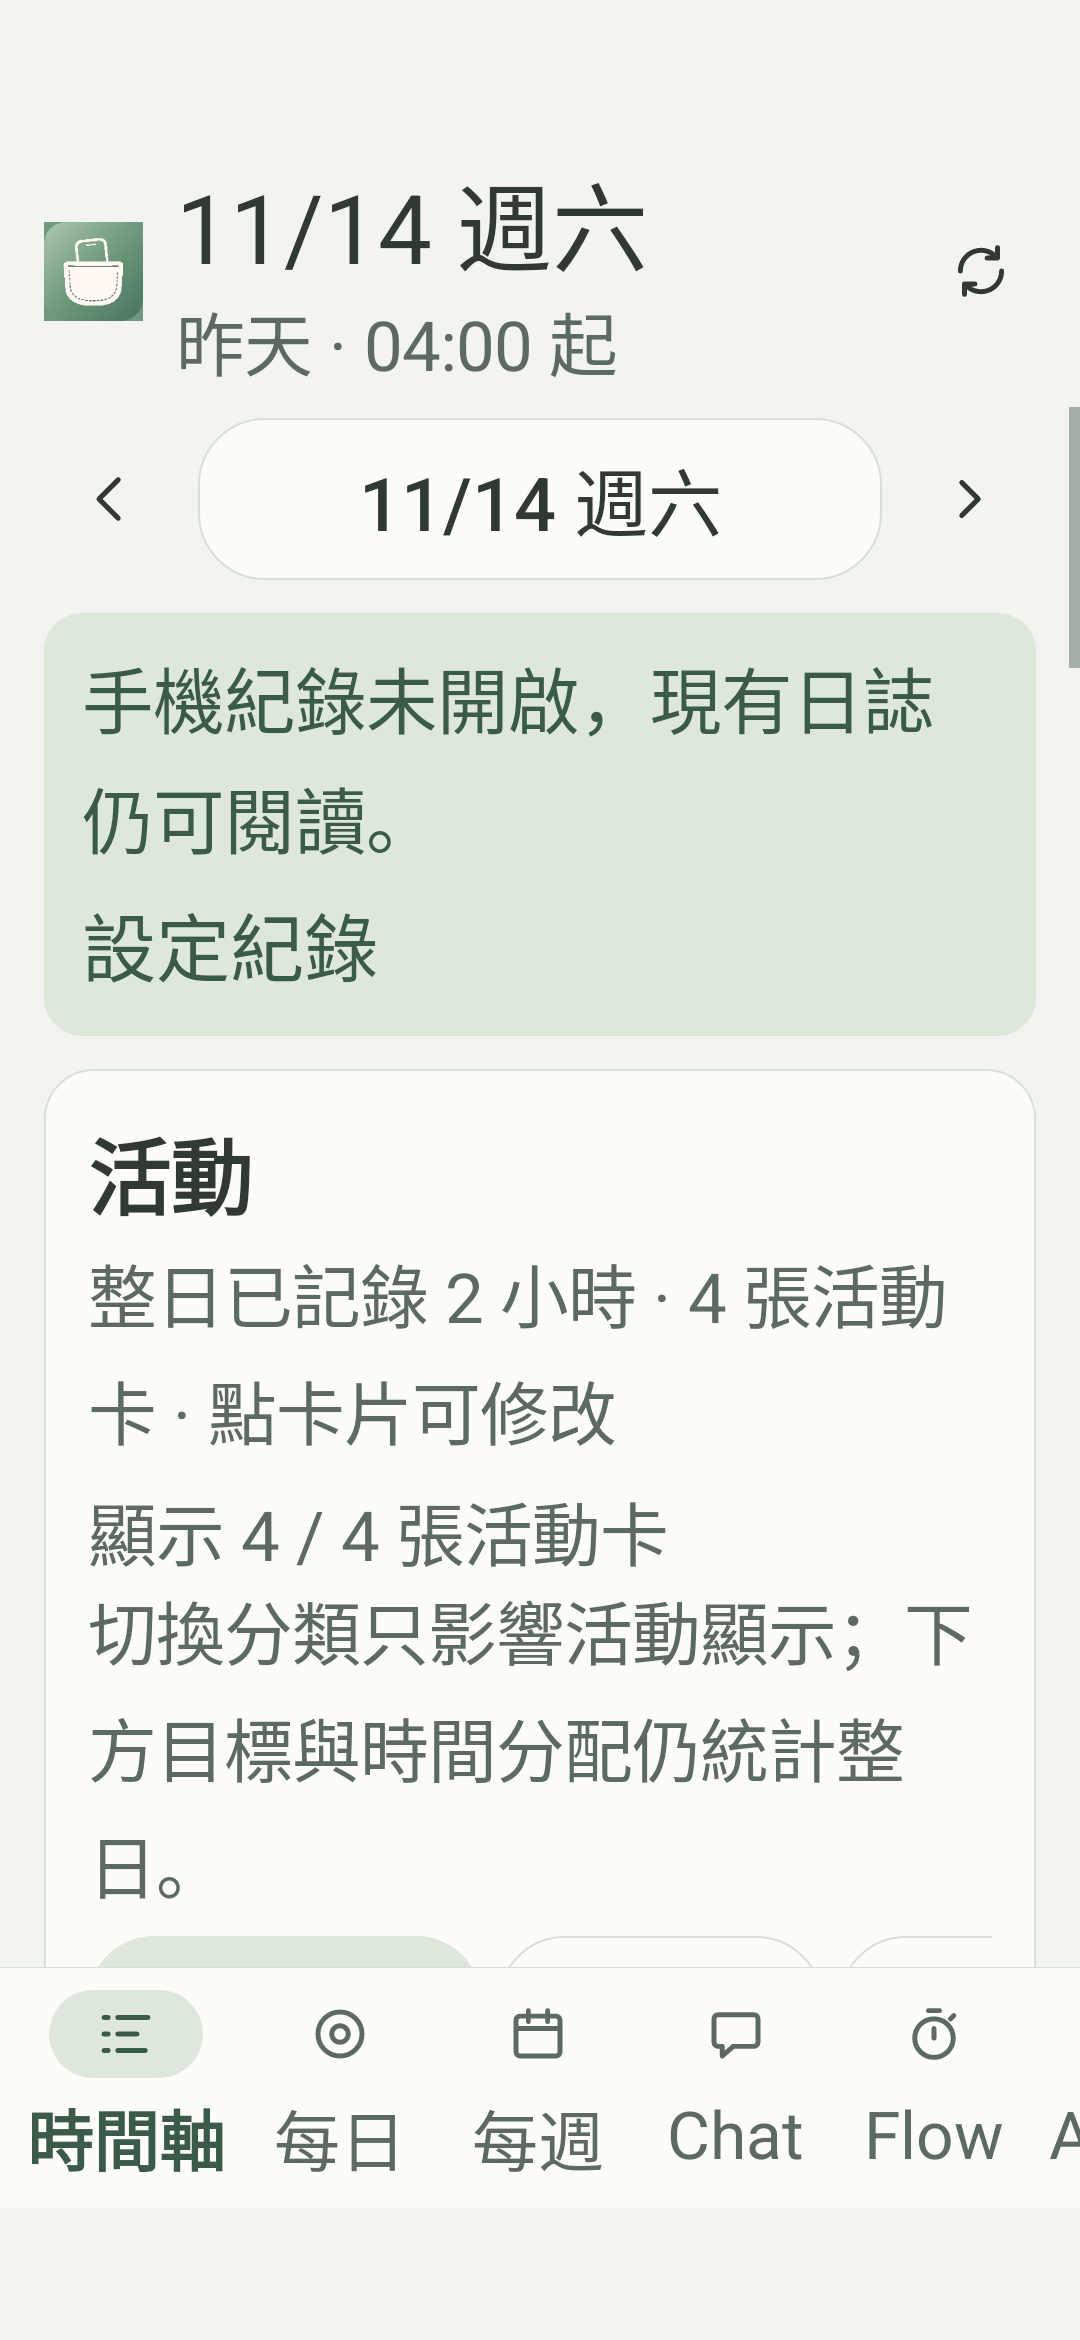
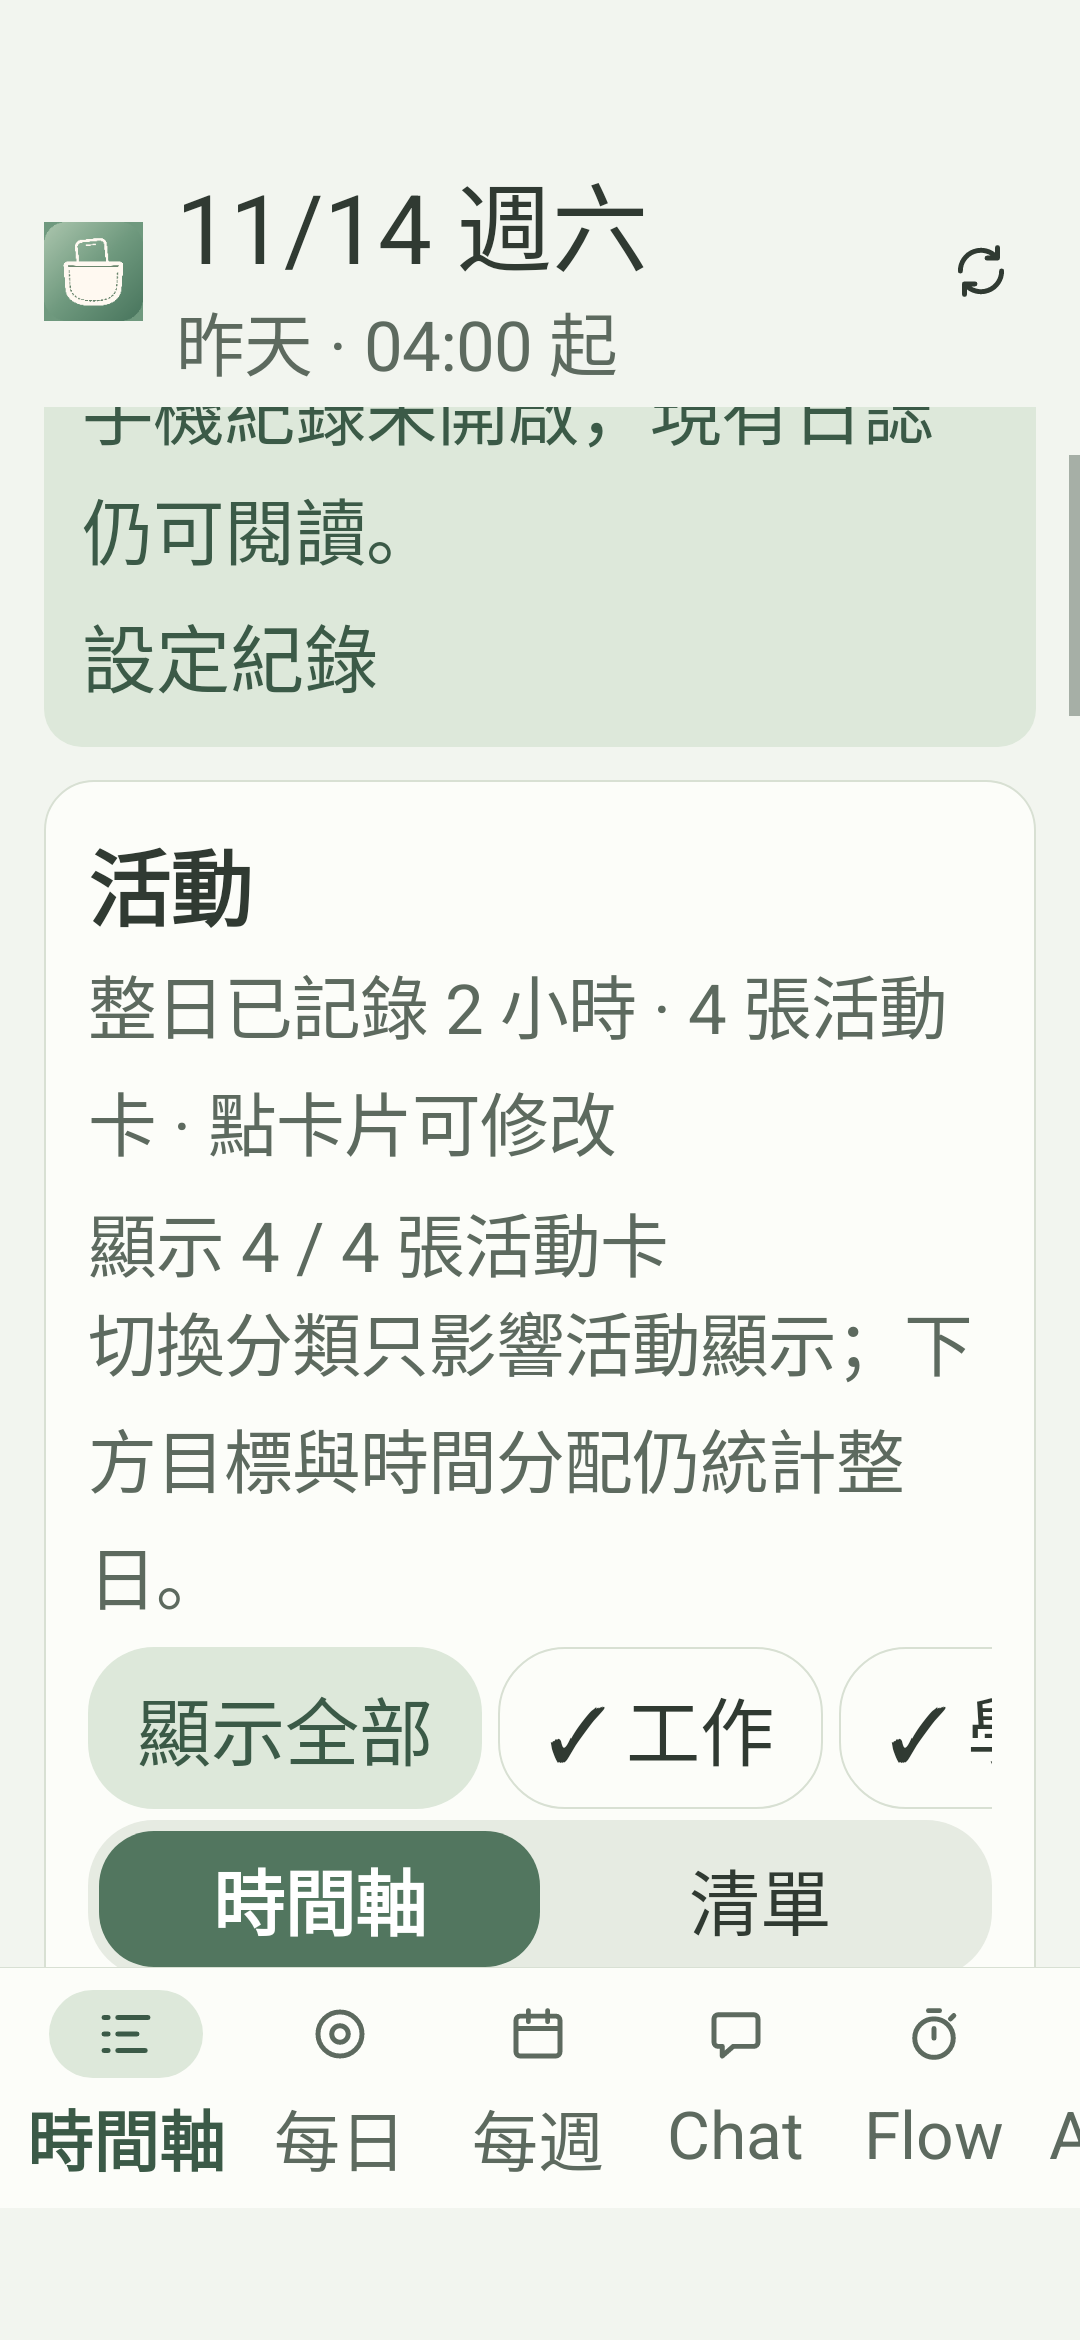
Capture visible category controls at large text size

Changed region(s): [[0.0306, 0.156, 0.9778, 0.8423], [0.9778, 0.156, 1.0, 0.2184], [0.9778, 0.2808, 1.0, 0.312]]

diff --git a/android/app/src/androidTest/java/tw/skyhong/pocketlog/ConnectedUiChecks.java b/android/app/src/androidTest/java/tw/skyhong/pocketlog/ConnectedUiChecks.java
@@ -196,7 +196,7 @@ final class ConnectedUiChecks {
         await("這些分類已隱藏"); await("顯示 0 / "+cards.length());
         capture("category-filter-empty"); click("重設分類篩選"); await("顯示 "+cards.length()+" / "+cards.length());
         if(has("這些分類已隱藏")) throw new IllegalStateException("Reset failed");
-        click("活動檢視：時間軸"); capture("category-filter-timeline");
+        click("活動檢視：時間軸"); reveal("活動檢視：時間軸，已選取"); capture("category-filter-timeline");
         click("後一天"); await("活動"); awaitSettled();
     }
     private void reveal(String label) {
